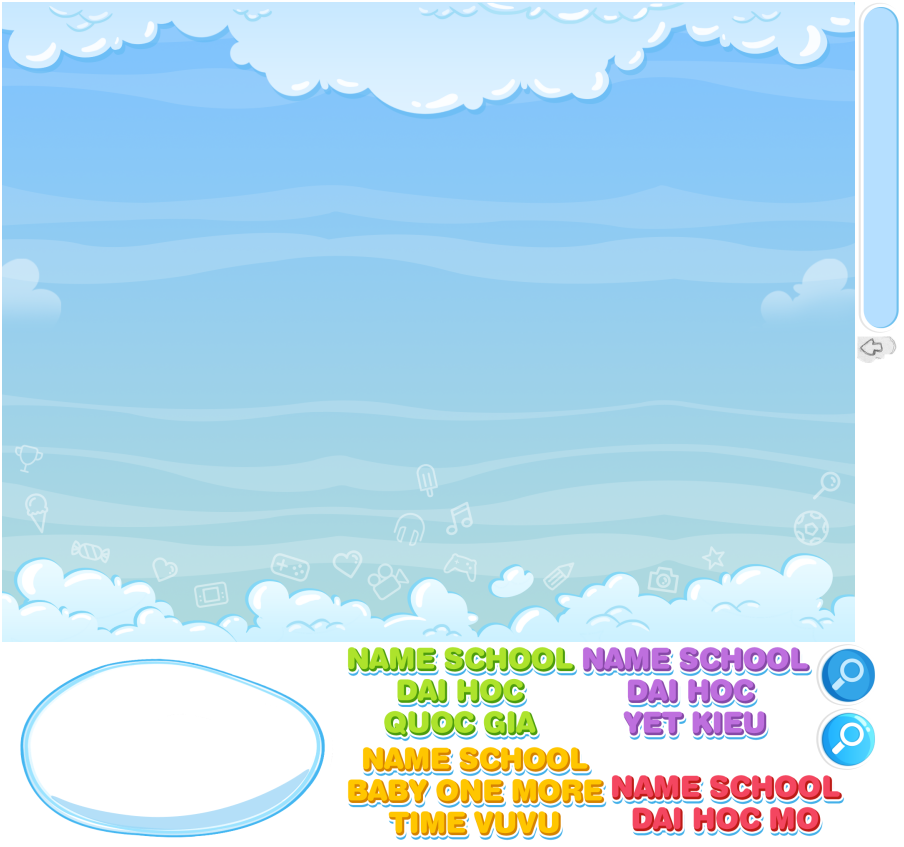
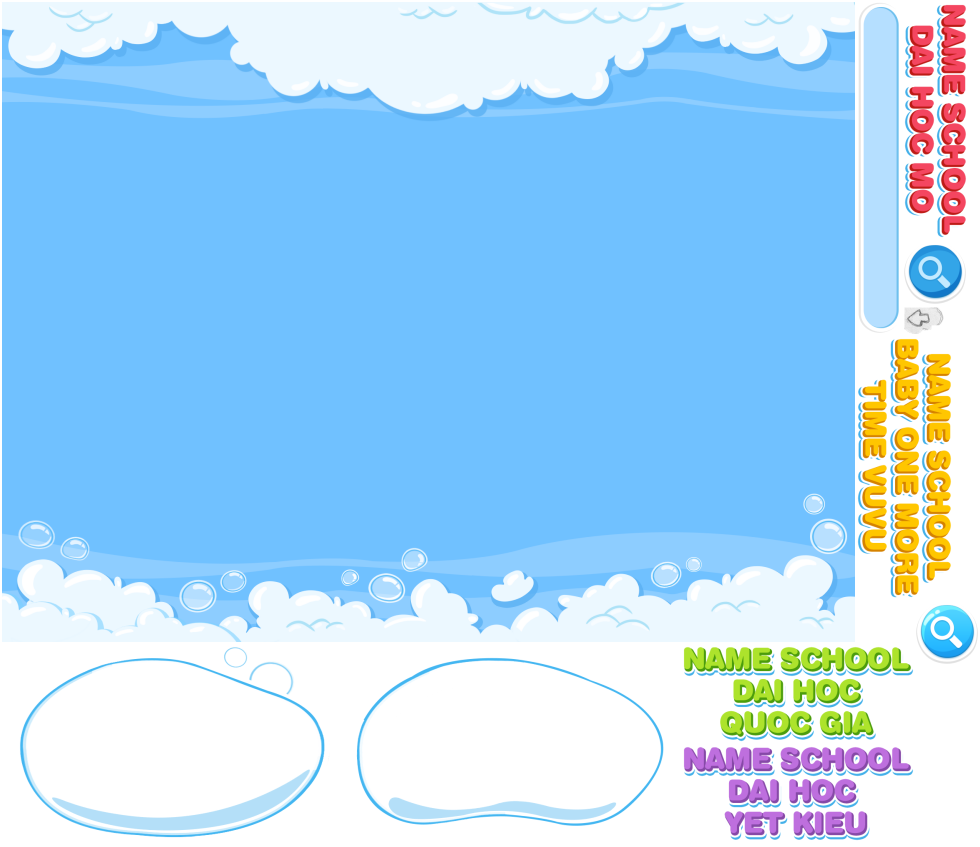
add font and new school assets

diff --git a/src/SchoolSelectorLayer.js b/src/SchoolSelectorLayer.js
@@ -37,9 +37,10 @@ var SchoolSelectorLayer = cc.Layer.extend({
     createSchoolButton: function(schNumber) {
         var self = this;
 
-        var w, r = 0;
+        var w, r1, r2 = 0;
         for ( var i = 0; i < schNumber; i++) {
-            var sc = new ccui.Button("school_bg.png", "", "", ccui.Widget.PLIST_TEXTURE);
+            r1 = Math.floor(Math.random() * 2 + 1);
+            var sc = new ccui.Button("school_bg-"+ r1 +".png", "", "", ccui.Widget.PLIST_TEXTURE);
 
             w = Math.floor(i / 2);
 
@@ -57,14 +58,18 @@ var SchoolSelectorLayer = cc.Layer.extend({
             sc.setSwallowTouches(false);
             sc.tag = i;
 
-            r = Math.floor(Math.random() * 3);
+            r2 = Math.floor(Math.random() * 3);
 
-            var scName = new cc.Sprite("#school_name-" + (r + 1) +".png");
+            var scName = new cc.LabelBMFont(SCHOOL_INFO[r2].name,
+                            res.RedFont_fnt,
+                            sc.width * 0.8,
+                            cc.TEXT_ALIGNMENT_CENTER);
+            // scName.setScale(0.3);
             scName.x = sc.width / 2;
             scName.y = sc.height / 2;
 
-            sc.addChild(scName , -1);
-            this.schoolName.push(r);
+            sc.addChild(scName);
+            this.schoolName.push(r2);
             this.schoolBtn.push(sc);
 
             sc.addClickEventListener(function() {self.callBack(this)});
@@ -108,22 +113,28 @@ var SchoolSelectorLayer = cc.Layer.extend({
         var str = this._searchField.getString();
         var scName;
         var n = -1;
-        var newStr;
+        var newStr = "";
         for ( var i = 0; i< str.length;i++){
-            newStr = str.charAt(i).toUpperCase();
+            newStr += str.charAt(i).toUpperCase();
         }
-
+        var a =[];
+        var found = false;
         for ( var i = 0; i < this.schoolBtn.length; i++) {
             var id = this.schoolName[i];
             scName = SCHOOL_INFO[id].name;
             n = scName.search(newStr);
             if (n >= 0) {
                 cc.log("school has found");
+                found = true;
             } else {
+                a.push(this.schoolBtn[i]);
                 this.schoolBtn[i].removeFromParent();
             }
-            if (i == (this.schoolBtn.length - 1) && n == -1)
-                this.createSchoolHolder(8);
+            if (i === (this.schoolBtn.length - 1) && !found) {
+                for ( var j = 0; j < this.schoolBtn.length; j++) {
+                    this.schHolder.addChild(this.schoolBtn[j]);
+                }
+            }
         }
     },
 
@@ -131,15 +142,12 @@ var SchoolSelectorLayer = cc.Layer.extend({
         var field = new cc.Sprite("#search_field.png");
         field.x = this._searchButton.x + field.width / 2;
         field.y = this._searchButton.height/2;
+
         var size = cc.size(field.width, field.height);
         var tf = new ccui.TextField("Your School Name", "Arial", 30);
 
         tf.x = field.width / 2;
         tf.y = field.height / 2;
-
-        // tf.setPlaceHolder("Your School Name");
-        // tf.setPlaceHolderColor(cc.color.BLACK);
-        cc.log(tf.getPlaceHolder());
 
         field.addChild(tf);
         this._searchArea.addChild(field);

diff --git a/src/resource.js b/src/resource.js
@@ -6,7 +6,9 @@ var res = {
     Male_png: "res/male-avt.png",
     PasswordField_png: "res/password-field.png",
     PasswordImg_png: "res/password-img.png",
-    Plus_png: "res/plus-button.png"
+    Plus_png: "res/plus-button.png",
+    RedFont_fnt: "res/font/red-font.fnt",
+    RedFont_png: "res/font/red-font.png",
 };
 
 var g_resources = [];
